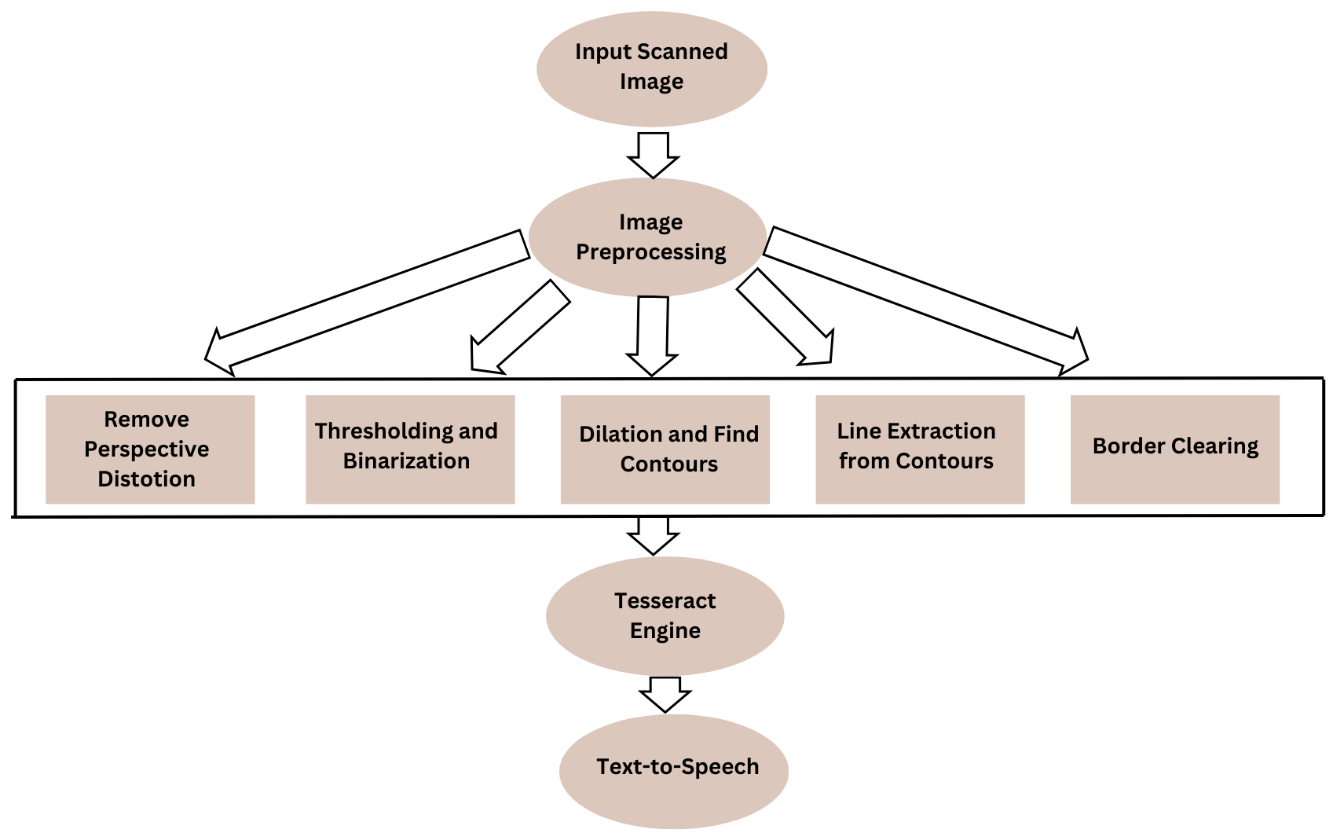
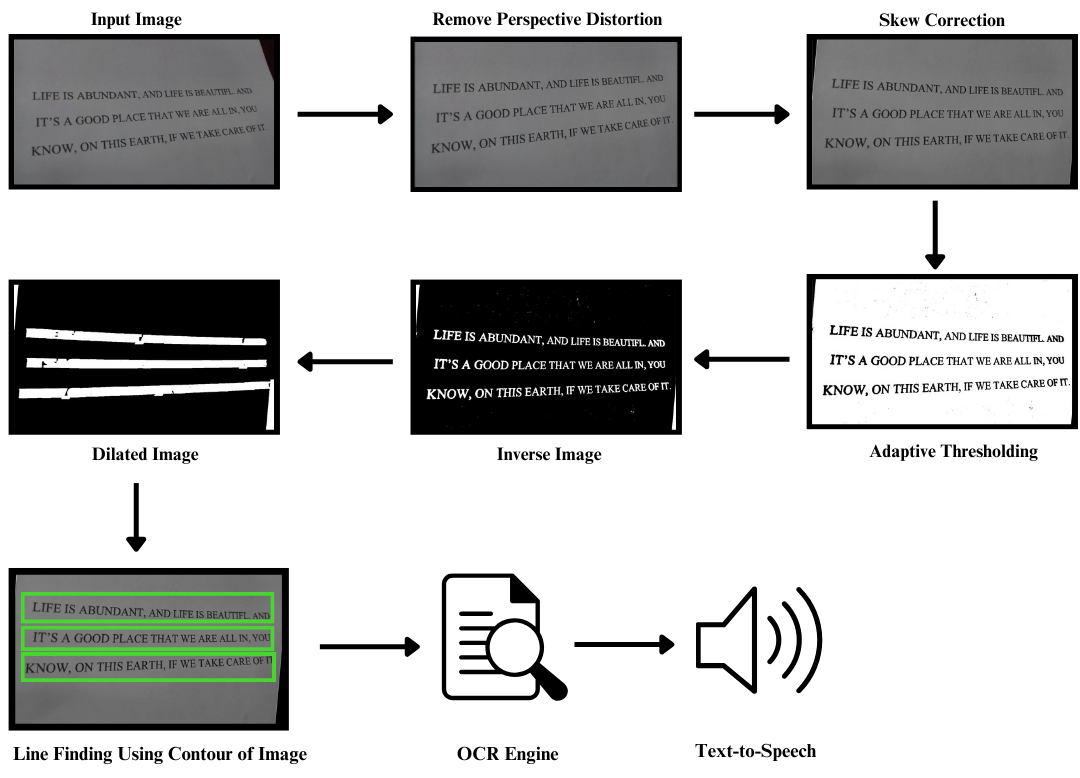
Add circuit diagram and update OCR pipeline figure

diff --git a/README.md b/README.md
@@ -68,6 +68,8 @@ VL53L0X time-of-flight laser sensors measure the distance to objects in front of
 
 ## Hardware
 
+![Circuit diagram](docs/images/circuit_diagram.jpg)
+
 | Component | Purpose |
 | --- | --- |
 | Raspberry Pi CM4 | Main processor |
